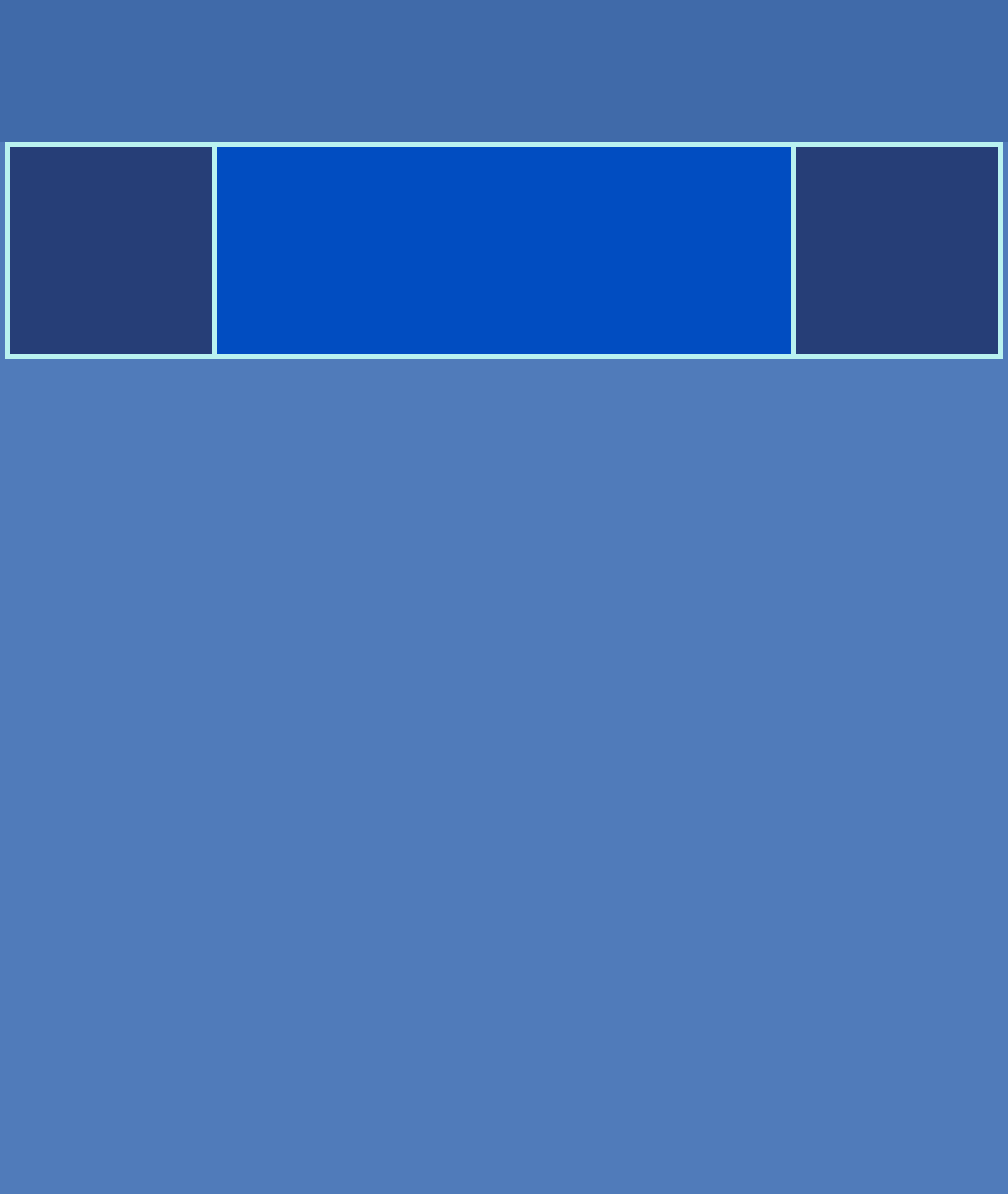
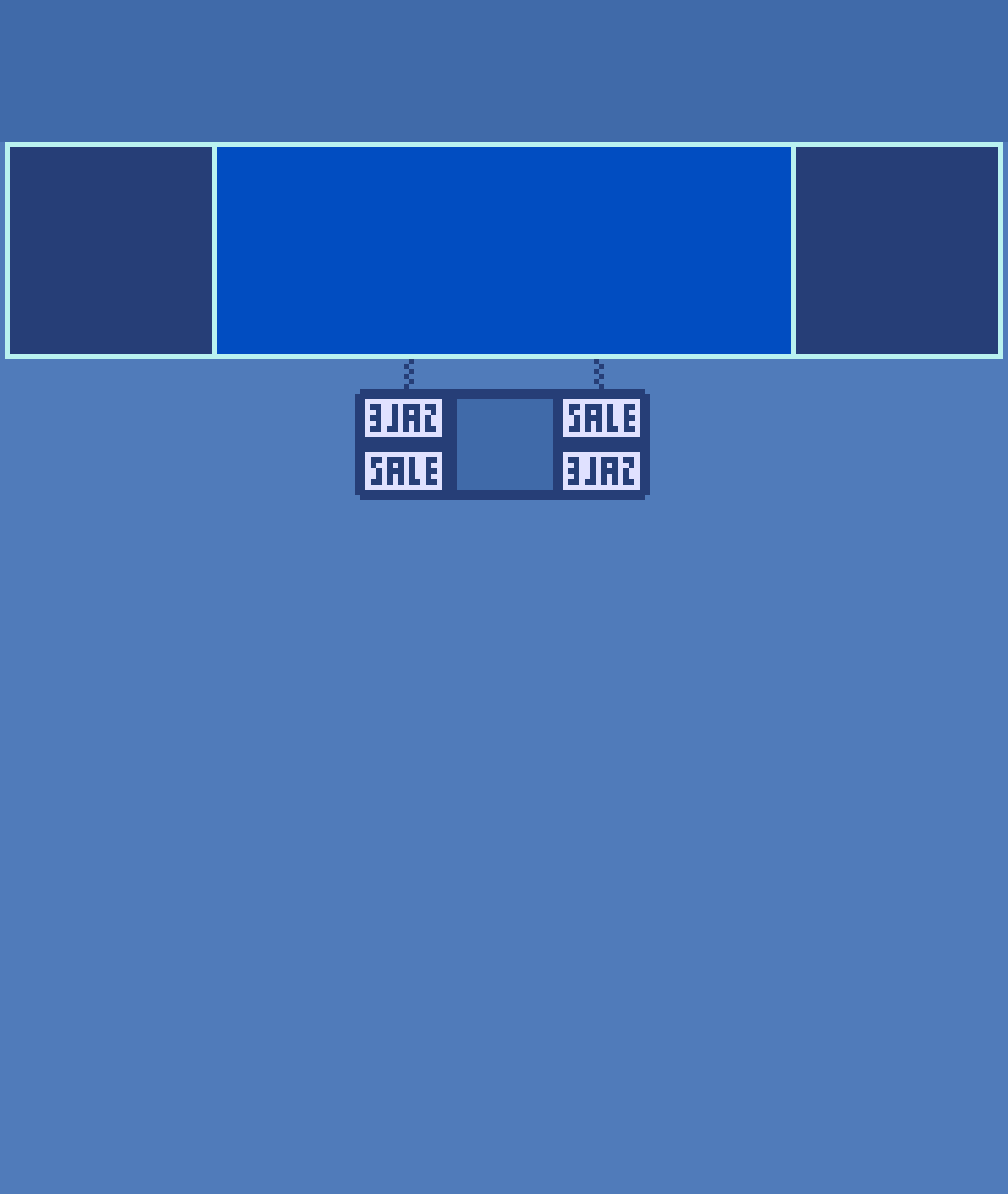
Added sale item sign, minor sprite changes

Changed region(s): [[0.3383, 0.3099, 0.6458, 0.4338]]

diff --git a/JojaOnline/JojaOnline/JojaOnline/UI/JojaSite.cs b/JojaOnline/JojaOnline/JojaOnline/UI/JojaSite.cs
@@ -14,6 +14,7 @@ namespace JojaOnline.JojaOnline.UI
     public class JojaSite: IClickableMenu
     {
         private readonly float scale = 1f;
+        private readonly Texture2D sourceSheet = JojaResources.GetJojaSiteSpriteSheet();
         private readonly List<ClickableTextureComponent> clickables = new List<ClickableTextureComponent>();
 
         public JojaSite(int uiWidth, int uiHeight) : base(Game1.uiViewport.Width / 2 - (uiWidth + IClickableMenu.borderWidth * 2) / 2, Game1.uiViewport.Height / 2 - (uiHeight + IClickableMenu.borderWidth * 2) / 2, uiWidth + IClickableMenu.borderWidth * 2, uiHeight + IClickableMenu.borderWidth * 2, showUpperRightCloseButton: true)
@@ -27,7 +28,6 @@ namespace JojaOnline.JojaOnline.UI
             }
 
             // Draw the clickables (buttons, etc)
-            Texture2D sourceSheet = JojaResources.GetJojaSiteSpriteSheet();
 
             // Joja Ads
             drawClickable("jojaCanAd", 42, 248, sourceSheet, new Rectangle(608, 0, 208, 208));
@@ -56,12 +56,13 @@ namespace JojaOnline.JojaOnline.UI
             Game1.dayTimeMoneyBox.drawMoneyBox(b);
 
             // Draw the custom store BG
-            Rectangle bounds = new Rectangle(this.xPositionOnScreen + 32, this.yPositionOnScreen + 100, this.width, this.height);
-            ClickableTextureComponent bg = new ClickableTextureComponent(bounds, JojaResources.GetJojaSiteBackground(), new Rectangle(0, 0, 1008, 1194), scale)
-            {
-                name = "background"
-            };
-            bg.draw(b);
+            b.Draw(JojaResources.GetJojaSiteBackground(), new Vector2(this.xPositionOnScreen + 32, this.yPositionOnScreen + 100), new Rectangle(0, 0, 1008, 1194), Color.White, 0f, Vector2.Zero, scale, SpriteEffects.None, 1f);
+
+            // Draw the static images
+            //b.Draw(sourceSheet, new Vector2((this.xPositionOnScreen + 32) * scale, (this.yPositionOnScreen + 100) * scale), new Rectangle(0, 0, 1008, 1194), Color.White, 0f, Vector2.Zero, scale, SpriteEffects.None, 1f);
+            //b.Draw(sourceSheet, new Vector2((this.xPositionOnScreen + 435) * scale, (this.yPositionOnScreen + 500) * scale), new Rectangle(0, 704, 56, 56), Color.White, 0f, Vector2.Zero, scale, SpriteEffects.None, 1f);
+            //https://spacechase0.com/mods/stardew-valley/better-shop-menu
+            // Draw the clickables
             foreach (ClickableTextureComponent clickable in clickables)
             {
                 clickable.draw(b);
@@ -73,7 +74,7 @@ namespace JojaOnline.JojaOnline.UI
 
         public void drawClickable(string identifier, int x, int y, Texture2D sourceTexture, Rectangle sourceRect)
         {
-            Rectangle bounds = new Rectangle((int)(this.xPositionOnScreen + x * scale), (int)(this.yPositionOnScreen + y * scale), (int)(sourceRect.Width * scale), (int)(sourceRect.Height * scale));
+            Rectangle bounds = new Rectangle((int)((this.xPositionOnScreen + x) * scale), (int)((this.yPositionOnScreen + y) * scale), (int)(sourceRect.Width * scale), (int)(sourceRect.Height * scale));
             ClickableTextureComponent clickable = new ClickableTextureComponent(bounds, sourceTexture, sourceRect, scale)
             {
                 name = identifier
